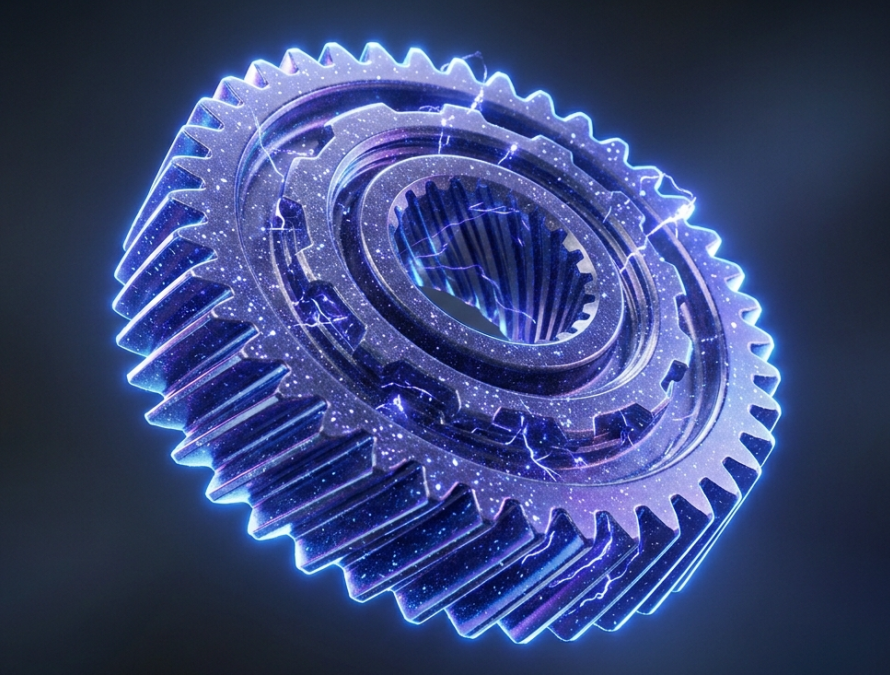
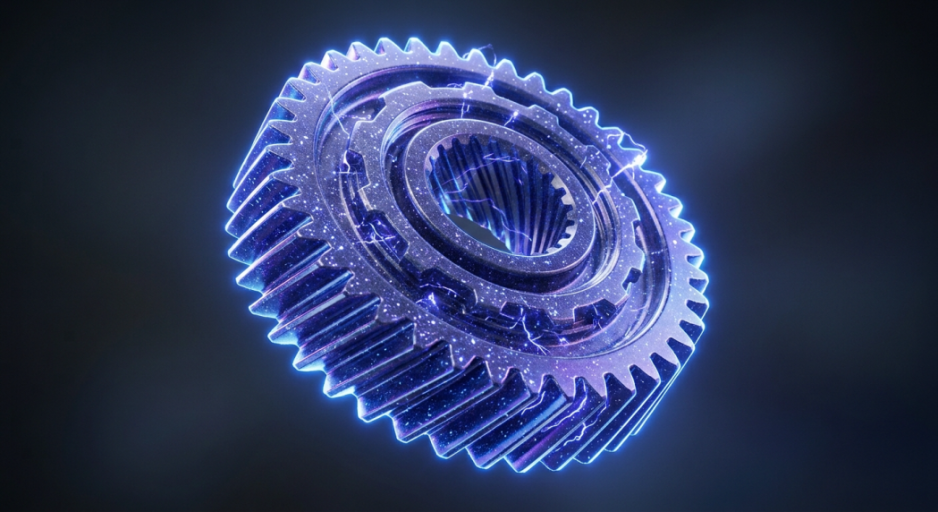
1

diff --git a/index.html b/index.html
@@ -540,8 +540,7 @@
 					<div class="image"><img src="images/korindorite_graphite.png" alt="Korindorite Graphite" /></div>
 					<div class="content">
 						<h2>Korindorite Graphite</h2>
-						<blockquote>"Fricción cero. Resistencia extrema. El polímero que desafía al metal sin
-							isocianatos."
+						<blockquote>"Dureza estructural, fricción cero y resistencia intrínseca al fuego sin halógenos ni isocianatos."
 						</blockquote>
 						<p>es el polímero estructural definitivo para la ingeniería pesada que combinar la dureza de la
 							micro-alúmina con la autolubricación y disipación térmica del grafito técnico, supera al
